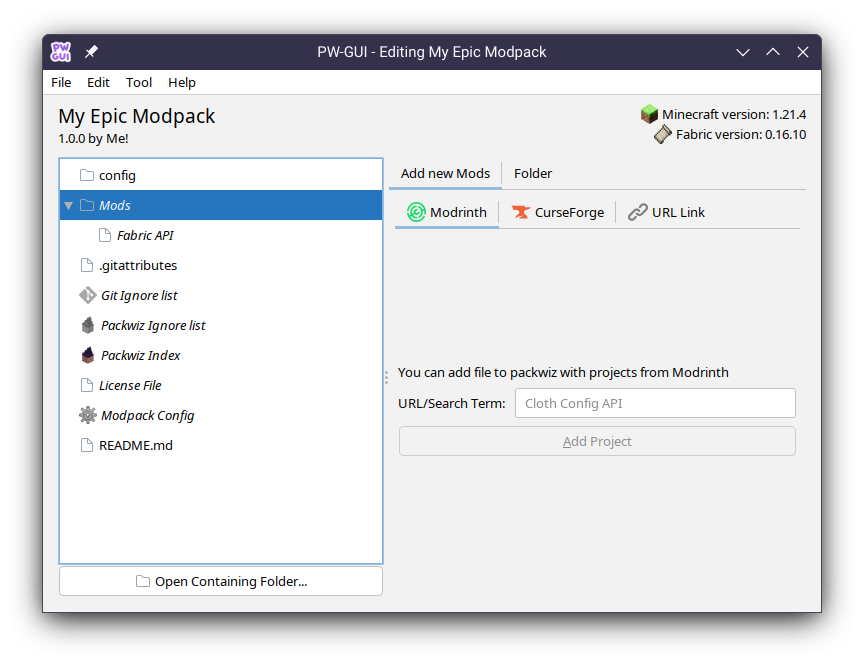
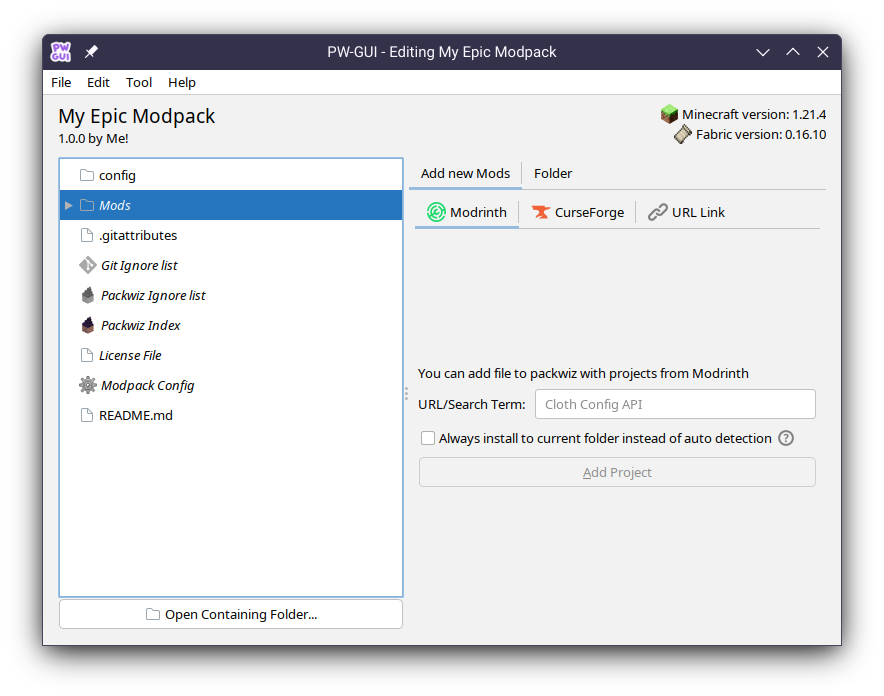
Update docs

Changed region(s): [[0.0312, 0.0302, 0.9688, 0.9351]]

diff --git a/docs/Usage.md b/docs/Usage.md
@@ -42,8 +42,24 @@ Each tab contains different operations you can do. Some of them are read-only (F
 
 The reason these 3 tabs appears in the above image is that the selected file belongs to all 3 categories: It is both a packwiz meta file (.pw.toml). It is a plain text file, and finally it is a file on your computer.  
 
-In the same vein, you select the Mods folder for a panel to add new mods in:
+
+## Adding Contents
+With the same logic as above, to add new mod, you can select the Mods folder:
 
 <img alt="User Interface with Mods folder selected" width="560px" src="./img/new_mods.png">
 
-You can also open the modpack folder by clicking the "Open Containing Folder..." at the bottom and adding in new files/folders manually.
+Note that packwiz automatically determines which folder the content will be placed in, based on the category that is tagged on Modrinth/CurseForge.
+
+If that's not desirable/the detection is not accurate, you can check **Always install to current folder instead of auto detection** to always put content to the current folder.
+
+## Adding Files
+One thing most modpack do have is that they contain mods. (duh!) (*Although it is possible to create a vanilla modpack in packwiz*)
+
+However, often times you also want to ship various configurations into the modpack as well. For example, you want a pre-configured set of Minecraft Options (via options.txt), or you want to configure some mod in certain ways.
+
+The way this is done is to literally ship the file into the modpack. In packwiz that is no exception, you simply put files into your modpack folder and it gets shipped!
+
+Several Tips:
+- Packwiz ignores some files by default, and those files won't be shipped to the modpack. You can check out *Packwiz Ignore List* in the file browser for a preview of what is/isn't ignored and to modify the rules.  
+- You can access the modpack folder by clicking **Open Containing Folder...** at the bottom.  
+- Packwiz uses the *Index File* to keep track of various files in the modpack. It is good practice to refresh the index after you put in some files outside of PW-GUI. This can be done in **Tool > Refresh Pack Index** in the toolbar at the top.
